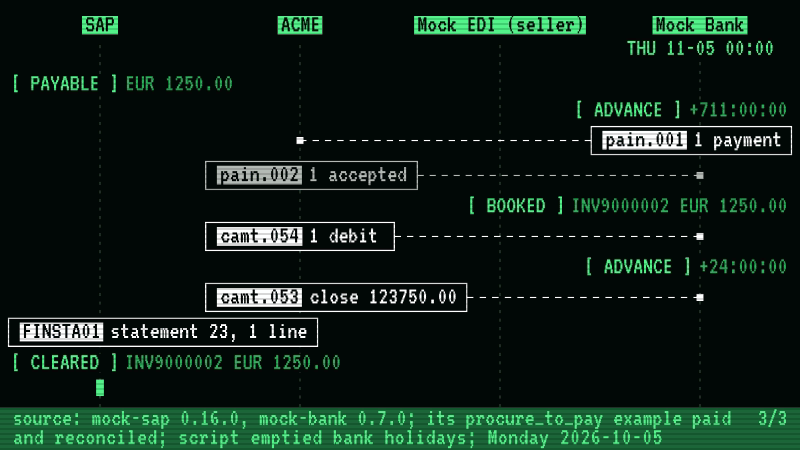
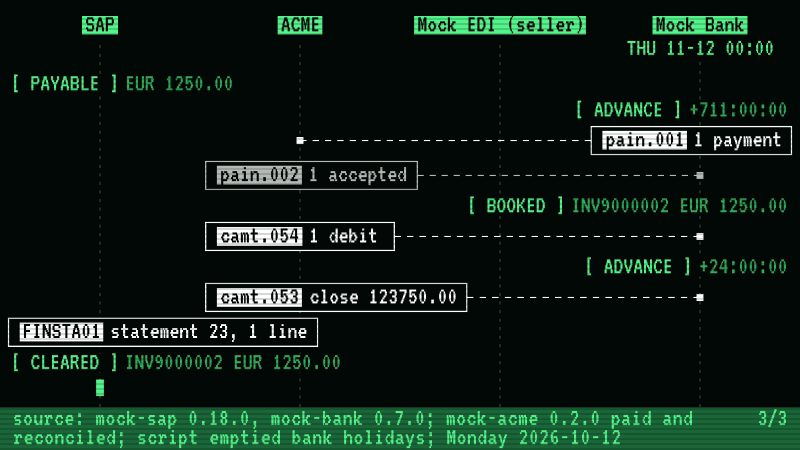
p2p_film re-cut: mock-acme 0.2.0 drives it, every date a week later
mock-films 91871af re-captured the three-mock film through mock-acme 0.2.0's
procure_to_pay instead of mock-bank's packaged example. No row changed; the
run now starts Monday 2026-10-12 and pays Wednesday 2026-11-11. The alt on the
home page and the post comes from the index.

- The post's dates move with it, and "the example" becomes the middleware.
- mock-acme 0.2.0 tells the supplier what was paid, so the post's "What it
  doesn't do" and the examples page say what it does (advise, an 820 through
  remittance) and what it still doesn't (a reversing 820). Procure to pay is
  now nineteen tests; an Updated note says what changed.
- The examples page counted "three of the four" legs below it; it is four of
  five since Remittance.

Claude-Session: https://claude.ai/code/session_015RDTBgG3oYVSZTAaz1gNwq

Changed region(s): [[0.0, 0.9022, 0.9062, 0.9956], [0.8438, 0.0933, 0.9062, 0.1244]]

diff --git a/examples/index.html b/examples/index.html
@@ -11,19 +11,21 @@ description: "Six small integrations between mock-sap, mock-edi and mock-bank, e
 
 	<div class="project" id="procure-to-pay">
 		<h3><a href="https://github.com/rseufert/mock-acme/blob/main/mockacme/procure_to_pay.py">Procure to pay</a> <span class="tag">all three mocks</span></h3>
-		<p>One purchase, carried the whole way: a purchase order in SAP becomes an X12 850, the supplier confirms it, ships it and invoices it, a three-way match posts the invoice into SAP as money owed, a payment run pays it in an ISO 20022 <code>pain.001</code>, and the bank's statement clears it. Three of the four examples below are its individual legs; this is the one that runs end to end.</p>
+		<p>One purchase, carried the whole way: a purchase order in SAP becomes an X12 850, the supplier confirms it, ships it and invoices it, a three-way match posts the invoice into SAP as money owed, a payment run pays it in an ISO 20022 <code>pain.001</code>, the bank's statement clears it, and the supplier is told what was paid. Four of the five examples below are its individual legs; this is the one that runs end to end.</p>
 <pre><code>SAP  ──850──▶  supplier          a purchase order becomes an EDI order
      ◀──855/856/810──  supplier  confirmed, shipped, invoiced
 SAP  ◀──INVOIC──                 matched, posted, and now owed
      ──pain.001──▶  bank         a payment run selects what is due
-SAP  ◀──FINSTA01◀──camt.053──    the statement clears what was paid</code></pre>
+SAP  ◀──FINSTA01◀──camt.053──    the statement clears what was paid
+SAP  ──PEXR2002──▶ 820 ──▶  supplier   and the supplier is told what for</code></pre>
 		<ul class="features">
 			<li><strong>It was written to find bugs, and it found three.</strong> Each pair of mocks was green while the chain was broken, because each pair's tests assert what the <em>next</em> system received rather than what it could do with it. An <code>INVOIC</code> that named no supplier and so created nothing owed; a mock that answered "posted" for having posted nothing; an order placed in EUR that came back invoiced in dollars. All three had been passing for days.</li>
 			<li><strong>The same invoice twice, and two things that look like they catch it.</strong> A supplier retries an invoice after the first was taken, and a restarted middleware posts it again. Upstream, an invoice arriving alone is blocked for billing more than was shipped - because the restart forgot the ship notice too, not because anything checked. Downstream, the payment run skips a repeated reference within one run - and pays it in the next, once the first has cleared. Neither end is checking, and the second payment goes out through the gap.</li>
 			<li><strong>The fix is to ask the system of record.</strong> Does SAP already hold a supplier invoice with this number, from this supplier? One <code>$filter</code>, and it survives a restart because SAP is where the answer lives. Per supplier, because an invoice number is only unique within one.</li>
 			<li><strong>A price disagreement never reaches the bank,</strong> blocked by a real <code>810</code> disagreeing with the purchase order rather than by a flag a test set.</li>
 			<li><strong>A payment the bank rejects leaves the invoice owed.</strong> The supplier's account is closed, SAP still holds its details, and <code>AC04</code> comes back: the item stays open and stays distinguishable from one that was paid and came back.</li>
-			<li><strong>It does not tell the supplier what was paid,</strong> and says so - which is why a supplier keeps dunning you for an invoice you paid. That needs a remittance advice, and every piece of one now exists: mock-sap 0.17.0 writes it from the payment, mock-edi 0.6.0 reads it as an X12 820, and <a href="#remittance">Remittance</a> below converts the one into the other. Procure to pay does not call it yet, so the gap is in this example rather than in anything it would need.</li>
+			<li><strong>The supplier is told what was paid,</strong> which is why it stops dunning you for an invoice you paid. Once the statement clears a payment, SAP writes the advice from the payment itself, one per payment document naming every invoice it settled, <a href="#remittance">Remittance</a> sends it on as an X12 820, and mock-edi says whether it agrees. Only what SAP has cleared is advised: a payment the bank accepted is not yet money that arrived.</li>
+			<li><strong>It does not take an advice back,</strong> and says so. A payment the bank returns after the supplier was told reopens the invoice in SAP, while the supplier still holds an advice saying it was paid; the correction is a reversing 820, which nothing here sends.</li>
 		</ul>
 <pre><code>git clone https://github.com/rseufert/mock-acme &amp;&amp; cd mock-acme
 pip install -e ".[test]"         # mock-acme, and the three mocks to test against

diff --git a/index.html b/index.html
@@ -67,7 +67,7 @@ curl -X POST --data-binary @pain001.xml http://127.0.0.1:8090/payments</code></p
 	<div class="project" id="together">
 		<h3><a href="/blog/2026/10/02/one-purchase-across-three-mocks">One purchase, all three mocks</a></h3>
 		<figure class="film">
-			<a class="play" href="/blog/p2p_film.gif" title="play the film"><img src="/blog/p2p_film.png" width="800" height="450" loading="lazy" alt="Four lanes: SAP, ACME, mock-edi as the supplier, and mock-bank; between the mocks runs the procure_to_pay example from the installed mock-bank package, driven by the capture script, which derived the Monday the run starts on, emptied the bank's holidays, and created the purchase order in SAP before the film starts. Act one, on Monday 2026-10-05: ACME's 850 goes to the supplier, and it acknowledges, confirms, packs, sends the despatch advice, raises invoice INV9000002 and sends the 810. Act two: the example posts that invoice to SAP as an INVOIC, and SAP posts it and owes EUR 1250.00. Act three: the script advances the bank's clock to Wednesday 2026-11-04, the day SAP says the invoice is due; the example sends a pain.001 with one payment, which the bank accepts, books and reports; the clock moves a day, the statement arrives, the example posts it to SAP as a FINSTA01 and SAP clears INV9000002. 22 empty statements are posted on the way and are not drawn, and the supplier is not told it was paid: the example sends no remittance advice."></a>
+			<a class="play" href="/blog/p2p_film.gif" title="play the film"><img src="/blog/p2p_film.png" width="800" height="450" loading="lazy" alt="Four lanes: SAP, ACME, mock-edi as the supplier, and mock-bank; between the mocks runs procure_to_pay from the installed mock-acme package, ACME's middleware, driven by the capture script, which derived the Monday the run starts on, emptied the bank's holidays, and created the purchase order in SAP before the film starts. Act one, on Monday 2026-10-12: ACME's 850 goes to the supplier, and it acknowledges, confirms, packs, sends the despatch advice, raises invoice INV9000002 and sends the 810. Act two: the middleware posts that invoice to SAP as an INVOIC, and SAP posts it and owes EUR 1250.00. Act three: the script advances the bank's clock to Wednesday 2026-11-11, the day SAP says the invoice is due; the middleware sends a pain.001 with one payment, which the bank accepts, books and reports; the clock moves a day, the statement arrives, the middleware posts it to SAP as a FINSTA01 and SAP clears INV9000002. 22 empty statements are posted on the way and are not drawn, and the supplier is not told it was paid: the capture stops before the middleware's advise step."></a>
 			<figcaption>one purchase across all three mocks <span>drawn by mock-films from a real run</span></figcaption>
 		</figure>
 		<p>A purchase order in mock-sap goes to mock-edi's supplier as an 850, comes back confirmed, shipped and invoiced, is posted into SAP as money owed, paid through mock-bank, and cleared by the bank's statement. Each pair of mocks was green while the chain between them was broken.</p>
@@ -88,7 +88,7 @@ curl -X POST --data-binary @pain001.xml http://127.0.0.1:8090/payments</code></p
 		<h3><a href="/examples/">Worked examples</a></h3>
 		<p>Small integrations between the mocks, each with its tests, kept in <a href="https://github.com/rseufert/mock-acme">mock-acme</a>.</p>
 		<ul class="index">
-			<li><a href="/examples/#procure-to-pay">Procure to pay</a> <span class="tag">all three mocks</span><br>One purchase, carried the whole way: from a purchase order in SAP to the bank statement that clears it.</li>
+			<li><a href="/examples/#procure-to-pay">Procure to pay</a> <span class="tag">all three mocks</span><br>One purchase, carried the whole way: from a purchase order in SAP to the bank statement that clears it and the advice that tells the supplier.</li>
 			<li><a href="/examples/#po-bridge">PO bridge</a> <span class="tag">mock-sap + mock-edi</span><br>Reads a purchase order from SAP, sends it to the supplier as an X12 850, and posts the supplier's 855 back as an <code>ORDRSP</code> IDoc.</li>
 			<li><a href="/examples/#invoice-check">Invoice check</a> <span class="tag">mock-sap + mock-edi</span><br>Posts a supplier's 810 invoice into SAP only if it passes a three-way match against the purchase order and the ship notice.</li>
 			<li><a href="/examples/#pay-invoices">Pay invoices</a> <span class="tag">mock-edi + mock-bank</span><br>Pays a supplier's EDIFACT <code>INVOIC</code>s in a <code>pain.001</code>, then works out from what the bank sends back which are actually paid.</li>

diff --git a/_posts/2026-10-02-one-purchase-across-three-mocks.md b/_posts/2026-10-02-one-purchase-across-three-mocks.md
@@ -11,7 +11,7 @@ image: /blog/p2p_film.png
 ---
 
 <figure class="film">
-	<a class="play" href="/blog/p2p_film.gif" title="play the film"><img src="/blog/p2p_film.png" width="800" height="450" alt="Four lanes: SAP, ACME, mock-edi as the supplier, and mock-bank; between the mocks runs the procure_to_pay example from the installed mock-bank package, driven by the capture script, which derived the Monday the run starts on, emptied the bank's holidays, and created the purchase order in SAP before the film starts. Act one, on Monday 2026-10-05: ACME's 850 goes to the supplier, and it acknowledges, confirms, packs, sends the despatch advice, raises invoice INV9000002 and sends the 810. Act two: the example posts that invoice to SAP as an INVOIC, and SAP posts it and owes EUR 1250.00. Act three: the script advances the bank's clock to Wednesday 2026-11-04, the day SAP says the invoice is due; the example sends a pain.001 with one payment, which the bank accepts, books and reports; the clock moves a day, the statement arrives, the example posts it to SAP as a FINSTA01 and SAP clears INV9000002. 22 empty statements are posted on the way and are not drawn, and the supplier is not told it was paid: the example sends no remittance advice."></a>
+	<a class="play" href="/blog/p2p_film.gif" title="play the film"><img src="/blog/p2p_film.png" width="800" height="450" alt="Four lanes: SAP, ACME, mock-edi as the supplier, and mock-bank; between the mocks runs procure_to_pay from the installed mock-acme package, ACME's middleware, driven by the capture script, which derived the Monday the run starts on, emptied the bank's holidays, and created the purchase order in SAP before the film starts. Act one, on Monday 2026-10-12: ACME's 850 goes to the supplier, and it acknowledges, confirms, packs, sends the despatch advice, raises invoice INV9000002 and sends the 810. Act two: the middleware posts that invoice to SAP as an INVOIC, and SAP posts it and owes EUR 1250.00. Act three: the script advances the bank's clock to Wednesday 2026-11-11, the day SAP says the invoice is due; the middleware sends a pain.001 with one payment, which the bank accepts, books and reports; the clock moves a day, the statement arrives, the middleware posts it to SAP as a FINSTA01 and SAP clears INV9000002. 22 empty statements are posted on the way and are not drawn, and the supplier is not told it was paid: the capture stops before the middleware's advise step."></a>
 	<figcaption>one purchase across all three mocks <span>drawn by mock-films from a real run</span></figcaption>
 </figure>
 
@@ -29,9 +29,9 @@ Every arrow in it is something one of the other worked examples already does wit
 
 ## What the film shows
 
-The run starts on Monday 2026-10-05. ACME's 850 goes to the supplier, which acknowledges it, confirms it, packs it, sends the despatch advice, and raises invoice INV9000002. The example posts that invoice into SAP as an `INVOIC`, and SAP now owes EUR 1250.00.
+The run starts on Monday 2026-10-12. ACME's 850 goes to the supplier, which acknowledges it, confirms it, packs it, sends the despatch advice, and raises invoice INV9000002. The middleware posts that invoice into SAP as an `INVOIC`, and SAP now owes EUR 1250.00.
 
-Then the bank's clock moves to Wednesday 2026-11-04, the day SAP says the invoice is due. The payment run sends a `pain.001` with one payment; the bank accepts it, books it and reports the debit. The clock moves a day, Thursday's statement arrives, the example posts it to SAP as a `FINSTA01`, and SAP clears INV9000002. On the way, 22 empty statements were posted for the days nothing happened, and the film leaves them out.
+Then the bank's clock moves to Wednesday 2026-11-11, the day SAP says the invoice is due. The payment run sends a `pain.001` with one payment; the bank accepts it, books it and reports the debit. The clock moves a day, Thursday's statement arrives, the middleware posts it to SAP as a `FINSTA01`, and SAP clears INV9000002. On the way, 22 empty statements were posted for the days nothing happened, and the film leaves them out.
 
 ## Each pair was green while the chain was broken
 
@@ -69,7 +69,9 @@ It survives a restart because SAP is where the answer lives. It is per supplier,
 
 ## What it doesn't do
 
-It never tells the supplier it was paid. That takes a remittance advice, an X12 820 or EDIFACT `REMADV`, and the film ends with SAP and the bank agreeing and the supplier none the wiser. That is why a supplier keeps dunning you for an invoice you paid. Every piece of one exists now: since 0.17.0 mock-sap writes the advice from the payment itself, naming every invoice it settled, mock-edi has read an 820 since 0.6.0, and mock-acme's [`remittance`](/examples/#remittance) converts the one into the other. The example just doesn't call it yet.
+The film never tells the supplier it was paid. That takes a remittance advice, an X12 820 or EDIFACT `REMADV`, and the film ends with SAP and the bank agreeing and the supplier none the wiser. That is why a supplier keeps dunning you for an invoice you paid. Since mock-acme 0.2.0 the middleware does tell it: after the statement clears the invoice, its `advise` step asks SAP for the payment advice (mock-sap writes one from the payment itself, naming every invoice it settled), converts it with [`remittance`](/examples/#remittance) into an 820, and sends it to mock-edi, which says whether it agrees. The film's capture stops before that step, so for now the fourth act is only in the tests.
+
+What the middleware still doesn't do is take it back. If the bank returns a payment after the supplier was told, SAP reopens the invoice, and the supplier holds an advice saying it was paid. The correction is a reversing 820, and nothing sends one yet.
 
 ## Run it
 
@@ -81,12 +83,14 @@ pip install -e ".[test]"
 python3 -m unittest -v tests.test_procure_to_pay
 ```
 
-Fourteen tests. Among them are the loop end to end, the duplicate paid without the check and refused with it, a price disagreement blocked before any money moves, a short shipment paid for what shipped, and a payment the bank rejects leaving the invoice owed. The other four came with the payment run's register: with one kept on disk, a restarted middleware does not pay again. The code is [procure_to_pay.py](https://github.com/rseufert/mock-acme/blob/main/mockacme/procure_to_pay.py), and the tests are in [tests/test_procure_to_pay.py](https://github.com/rseufert/mock-acme/blob/main/tests/test_procure_to_pay.py).
+Nineteen tests. Among them are the loop end to end, the duplicate paid without the check and refused with it, a price disagreement blocked before any money moves, a short shipment paid for what shipped, and a payment the bank rejects leaving the invoice owed. The other four came with the payment run's register: with one kept on disk, a restarted middleware does not pay again. The last five came with the advice: the supplier is told and agrees, one advice names both invoices a single payment settled, a payment the bank refused is not advised, a payment accepted but not yet on a statement is not advised either, and the advice carries the bank's day, which the supplier judges by its own clock. The code is [procure_to_pay.py](https://github.com/rseufert/mock-acme/blob/main/mockacme/procure_to_pay.py), and the tests are in [tests/test_procure_to_pay.py](https://github.com/rseufert/mock-acme/blob/main/tests/test_procure_to_pay.py).
 
 *Checked on 4 October 2026 against mock-sap 0.16.0, mock-edi 0.7.0 and mock-bank 0.7.0.*
 
 *Checked again on 5 October 2026 against mock-sap 0.17.1: the ten tests pass unchanged. 0.17.0 changed how a statement posts, with one payment document per supplier rather than one per invoice, and added the remittance advice mentioned above.*
 
 *Updated 5 October 2026: the example has moved. It was in mock-bank's `examples/` and its wheel, as `mockbank.examples`; it is now in [mock-acme](https://github.com/rseufert/mock-acme), with the other integrations between the mocks, and the mocks have removed their copies. [Run it](#run-it) says how to run it from there. Against mock-sap 0.18.0, mock-edi 0.7.0 and mock-bank 0.7.0, from mock-acme at `5f2ee3d`, it is fourteen tests, OK. The ten this post described are all among them. mock-bank 0.7.0 still carries the old copy, and the release after it will not.*
+
+*Updated 5 October 2026: mock-films re-cut the film with mock-acme 0.2.0's `procure_to_pay` driving it, where it had run mock-bank's packaged example. No row changed, but every date moved a week, because the run is dated the Monday after the capture: it now starts on Monday 2026-10-12 and pays on Wednesday 2026-11-11. mock-acme 0.2.0 also tells the supplier what was paid, so [What it doesn't do](#what-it-doesnt-do) now says what the middleware does and what it still doesn't. Against mock-sap 0.18.0, mock-edi 0.7.0 and mock-bank 0.7.0, from mock-acme 0.2.0 at `c538e72`, it is nineteen tests, OK.*
 
 <script src="/js/films.js" defer></script>
